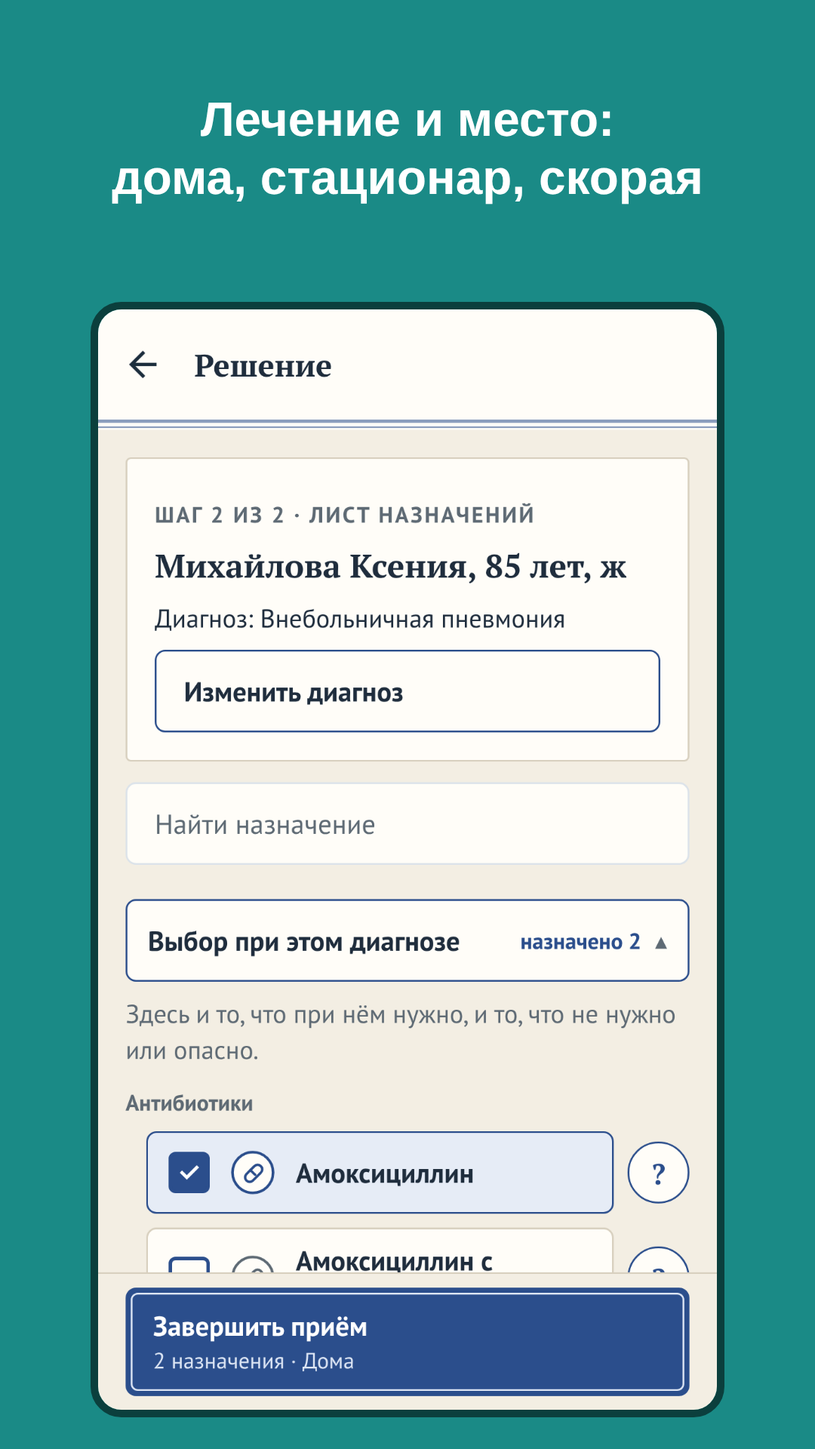
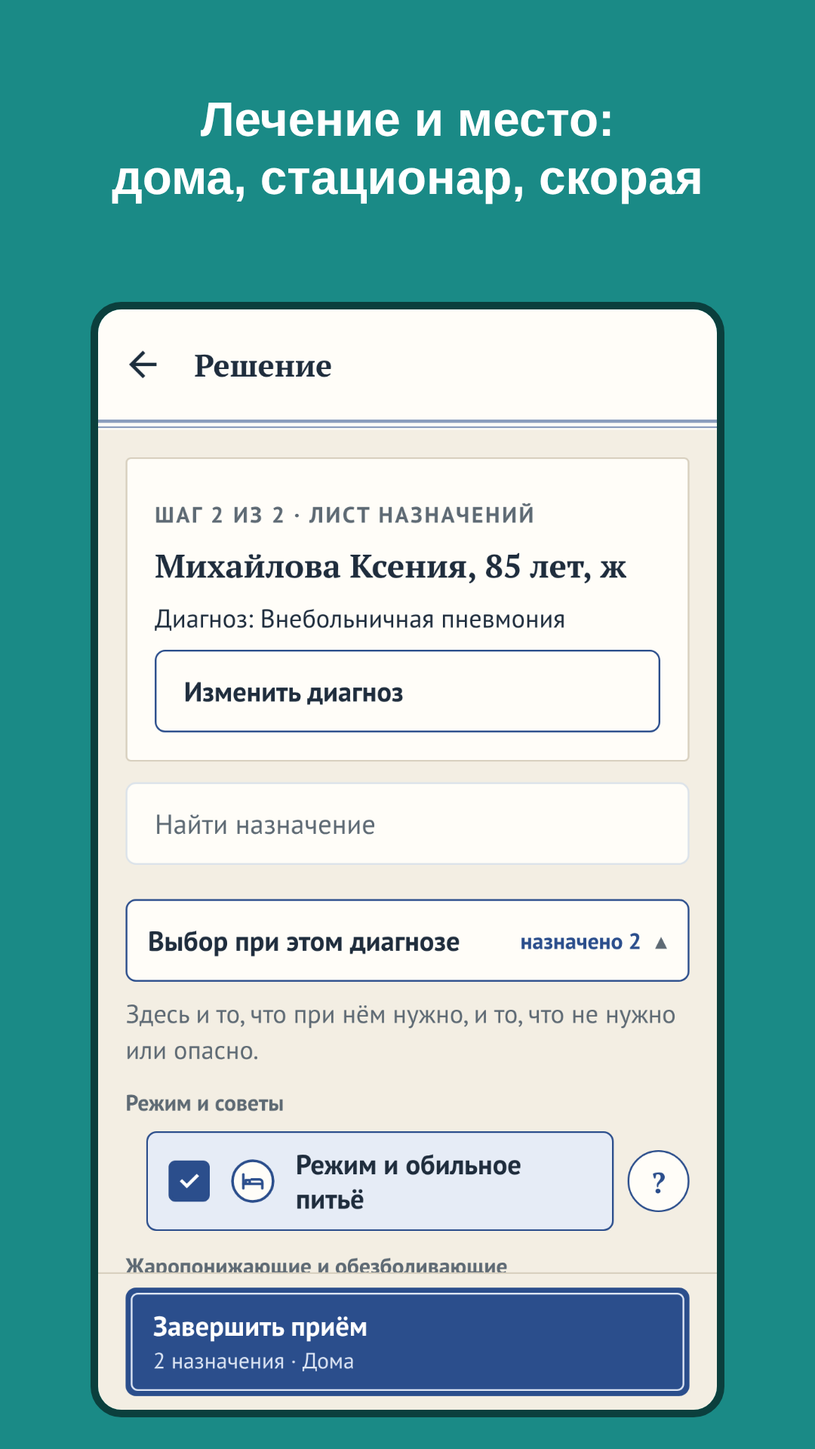
1.1.9 — лист назначений: сначала то, что облегчает (ответ на вопрос 73)
Ответ владельца на вопрос 73 (Nefeste/anamnez#215), вариант 2: TX_GROUP_ORDER —
«Режим и советы», жаропонижающие, нос, бронхи, противовирусные, антибиотики, остальное
по-прежнему. Порядок один для всех диагнозов; тот же — у лечения в энциклопедии. Тест —
в visit.test, в сценарии в браузере — антибиотики не первой группой. Снимок магазина 06
переснят. Вопрос 74 (вид кнопок) — Nefeste/anamnez#218, ссылки в документах.

Claude-Session: https://claude.ai/code/session_01L25NsoAfKYPftpG2eaN9Vv

Changed region(s): [[0.1528, 0.75, 0.6417, 0.875], [0.7639, 0.7812, 0.8556, 0.8438], [0.7333, 0.8438, 0.7639, 0.875]]

diff --git a/src/i18n/sections/about.ts b/src/i18n/sections/about.ts
@@ -9,14 +9,17 @@ export const about = {
   whatsNew: 'Что нового',
   // то же, что раздел версии в README.md (05-process.md, чек-лист выпуска)
   news: [
-    'Кнопка «Обновить гипотезы» на доске: убирает из ряда то, чего больше нет в «Похоже на».',
-    'Полосы над картой пациента закрываются: «Похоже на» и опасные причины — у этого пациента, «За это время» — до следующего события.',
-    'В настройках — «Подсказки полосой над картой»: выключите, и полос «Похоже на» и опасных причин не будет ни у кого.',
-    'Панель вопросов в расспросе отделена от беседы заметной границей.',
+    'Лист назначений начинается с того, что облегчает: «Режим и советы», жаропонижающие, нос, бронхи, — а противовирусные и антибиотики идут за ними.',
   ],
   // прежние версии (просьба владельца 01.11.2026) — под кнопкой, новые сверху, с первого выпуска; строки — из разделов
   // этих версий в README.md
   newsBefore: [
+    { version: '1.1.8', title: 'гипотезы и полосы над картой', items: [
+      'Кнопка «Обновить гипотезы» на доске: убирает из ряда то, чего больше нет в «Похоже на».',
+      'Полосы над картой пациента закрываются: «Похоже на» и опасные причины — у этого пациента, «За это время» — до следующего события.',
+      'В настройках — «Подсказки полосой над картой»: выключите, и полос «Похоже на» и опасных причин не будет ни у кого.',
+      'Панель вопросов в расспросе отделена от беседы заметной границей.',
+    ] },
     { version: '1.1.7', title: 'повторный проход', items: [
       'Медаль «Карьера пройдена» теперь даётся: прошедшие главу 4 получат её вместе с медалями глав после следующего закрытого дня.',
       '«Случай дня» — и в «Быстрой игре», рядом с практикой и «Сменой».',

diff --git a/tools/test/visit.test.ts b/tools/test/visit.test.ts
@@ -1,7 +1,7 @@
 // Приём пациента прототипа П4 (spec 2026-09-spikes): модуль грузится, часы идут делами,
 // результаты приходят в свой срок, правда видна только в разборе после диагноза.
 import { describe, expect, test } from 'bun:test';
-import { outcomeText, suggestedTreatments } from '../../src/state/caseView';
+import { outcomeText, suggestedTreatments, TX_GROUP_ORDER } from '../../src/state/caseView';
 import { act, chooseDiagnosis, chooseSetting, conditionChoices, conditionTerm, diagnosisGroups, examInfo, examsByAction, examTerm, findingInfo, finish, nextPatient, toggleTreatment, treatmentTerm, visitView, waitForResults } from '../../src/state/visit';
 
 describe('приём', () => {
@@ -146,6 +146,11 @@ describe('приём', () => {
     expect(group('tx.aspirin_acs')).toBe('heart');
     expect(group('tx.rest_fluids')).toBe('regimen');
     expect(v.treatmentGroups.every(g => g.title.length > 0)).toBe(true);
+    // вопрос 73 (#215, вариант 2): сначала режим и то, что облегчает, потом противовирусные и антибиотики
+    expect(TX_GROUP_ORDER.slice(0, 6)).toEqual(['regimen', 'pain', 'nose', 'breathing', 'antivirals', 'antibiotics']);
+    expect(new Set(TX_GROUP_ORDER).size).toBe(TX_GROUP_ORDER.length);
+    const keys = v.treatmentGroups.map(g => g.key);
+    expect(keys).toEqual(TX_GROUP_ORDER.filter(k => keys.includes(k)));
   });
 
   // вопрос 34 (замечание владельца 12.10.2026): при ОРВИ «Режим и обильное питьё» был в самом низу, рядом с прививками и гипсом

diff --git a/tools/e2e/smoke.ts b/tools/e2e/smoke.ts
@@ -1516,7 +1516,8 @@ try {
     `решение, шаг 2: лист назначений — сверху выбор при пневмонии, групп свёрнуто ${txClosed}`);
   // часть 101 (вопрос 68): выбор при диагнозе — группами в порядке всего листа, антибиотики — своей группой
   const topGroups = await page.getByTestId('tx-suggested').locator('[data-testid^="tx-top-"]').evaluateAll(xs => xs.map(x => x.getAttribute('data-testid')));
-  check(topGroups.length >= 2 && topGroups.includes('tx-top-antibiotics') && (await page.getByTestId('tx-top-antibiotics').locator('[data-testid="tx-tx.amoxicillin"]').count()) === 1,
+  // вопрос 73 (#215, вариант 2): антибиотики — не первой группой, сначала режим и то, что облегчает
+  check(topGroups.length >= 2 && topGroups.indexOf('tx-top-antibiotics') > 0 && (await page.getByTestId('tx-top-antibiotics').locator('[data-testid="tx-tx.amoxicillin"]').count()) === 1,
     `решение, шаг 2: выбор при диагнозе — группами: ${topGroups.join(', ')}`);
   await page.getByTestId('tx-search').fill('тромбол');
   check((await page.getByTestId('tx-tx.thrombolysis').count()) === 1 && (await page.getByTestId('tx-tx.cast_splint').count()) === 0,

diff --git a/src/state/caseView.ts b/src/state/caseView.ts
@@ -467,8 +467,13 @@ const TX_GROUPS: [string, string[]][] = [
   ['consult', ['consult']],
 ];
 
-/** Порядок групп лечения — для решения и энциклопедии. */
-export const TX_GROUP_ORDER = [...TX_GROUPS.map(([k]) => k), 'regimen'];
+/**
+ * Порядок групп лечения — для решения и энциклопедии. Ответ владельца на вопрос 73 (#215, вариант 2): сначала то, что
+ * облегчает, — режим, жаропонижающие, нос, бронхи, — потом противовирусные и антибиотики, остальное — как в
+ * `TX_GROUPS`. Порядок один для всех диагнозов: ответа он не подсказывает, а лист не начинается с антибиотиков.
+ */
+const TX_FIRST = ['regimen', 'pain', 'nose', 'breathing', 'antivirals', 'antibiotics'];
+export const TX_GROUP_ORDER = [...TX_FIRST, ...TX_GROUPS.map(([k]) => k).filter(k => !TX_FIRST.includes(k))];
 
 /** Группа по классу лечения; без класса — режим и советы. */
 export function txGroupOfClass(cls: string | undefined): string {

diff --git a/docs/specs/2026-10-publish-ready.md b/docs/specs/2026-10-publish-ready.md
@@ -1,7 +1,7 @@
 # Путь к публикации: критический проход и части
 
-**Версия:** 1.1.x → публикуемая **Состояние:** проход — 31.10.2026, повторный — 01.11.2026; части 97–105 — 1.1.1–1.1.8;
-106 — по просьбе владельца 01.11.2026
+**Версия:** 1.1.x → публикуемая **Состояние:** проход — 31.10.2026, повторный — 01.11.2026; части 97–105 — 1.1.1–1.1.8,
+ответ на вопрос 73 — 1.1.9; 106 — вид кнопок, вопрос 74
 
 ## Зачем
 
@@ -51,7 +51,7 @@
 | 102 | Меню на высоком экране — пустота между бейджем и пунктами | Н8 | вопрос 69, [#204](https://github.com/Nefeste/anamnez/issues/204) | S |
 | 103 | Повторный критический проход по тем же меркам; снимки и тексты магазина — по публикуемой версии; правки по нему — 1.1.7 | Н1, Н3, Н5–Н8, Н10 повторного прохода | вопрос 73, [#215](https://github.com/Nefeste/anamnez/issues/215) — порядок групп листа назначений | M |
 | 105 | Приём: кнопка «Обновить гипотезы» — убрать из ряда то, чего уже нет в «Похоже на»; плашки над картой пациента — «Похоже на», «Опасных причин … почти не бывает», «За это время пришёл …» — закрываются; видимая граница между беседой и вопросами | просьба владельца 01.11.2026; Н4 повторного прохода; сделано — 1.1.8 | — | M |
-| 106 | Вид кнопок — по образцу, который прислал владелец 01.11.2026; спецификация [`2026-11-buttons`](2026-11-buttons.md) | просьба владельца 01.11.2026 | вопрос 74 — клавиша или контур | M |
+| 106 | Вид кнопок — по образцу, который прислал владелец 01.11.2026; спецификация [`2026-11-buttons`](2026-11-buttons.md) | просьба владельца 01.11.2026 | вопрос 74, [#218](https://github.com/Nefeste/anamnez/issues/218) — клавиша или контур | M |
 
 Вопросы 70 (системный экран запуска Android, [#205](https://github.com/Nefeste/anamnez/issues/205)) и 71
 (тишина в кабинете на приёме, [#206](https://github.com/Nefeste/anamnez/issues/206)) — из спецификации
@@ -230,10 +230,15 @@
   Вес, жажда?» — на 370 точек, и ни одного вызова прокрутки из кода игры. Вопрос — двенадцатый в списке, и Playwright
   перед касанием сам докручивает панель к нему; отсюда срезанный верхний чип на снимках обоих проходов. У игрока панель
   стоит там, куда он её прокрутил; кадр ниже — с панелью в исходном положении.
-- **Из повторного прохода оставлено.** Н2 (лист назначений начинается с «Антибиотиков») — развилка, вопрос 73: порядок
-  групп выбран по ответу на вопрос 68, менять его — решение владельца. Н4 (пузырь над вопросами) — в части 105, тот же
-  экран. Н9 («идеального врача» и «разумный врач» на одном экране) — это две разные фигуры: уверенность по всем
-  найденным данным и путь врача-эталона с его обследованиями; имена оставлены.
+- **Ответ владельца на вопрос 73 — 1.1.9** (01.11.2026, [#215](https://github.com/Nefeste/anamnez/issues/215),
+  вариант 2). `TX_GROUP_ORDER`: «Режим и советы», «Жаропонижающие и обезболивающие», «Нос и аллергия», «Бронхи и
+  воспаление», «Противовирусные», «Антибиотики», остальное — в прежнем порядке. Порядок один для всех диагнозов; он же —
+  у лечения в энциклопедии. Тест — в `visit.test.ts`, в сценарии в браузере — антибиотики не первой группой. Снимок
+  магазина 06 переснят: лист при пневмонии начинается с «Режима и советов».
+- **Из повторного прохода оставлено.** Н2 (лист назначений начинается с «Антибиотиков») — была развилкой, вопрос 73:
+  порядок групп выбран по ответу на вопрос 68, менять его — решение владельца (решено — 1.1.9, выше). Н4 (пузырь над
+  вопросами) — в части 105, тот же экран. Н9 («идеального врача» и «разумный врач» на одном экране) — это две разные
+  фигуры: уверенность по всем найденным данным и путь врача-эталона с его обследованиями; имена оставлены.
 
 ## Журнал проверок
 

diff --git a/docs/07-roadmap.md b/docs/07-roadmap.md
@@ -152,14 +152,14 @@ ADR [0021](adr/0021-private-after-release.md)). Тег `v1.0.0` — 31.10.2026, 
      [#204](https://github.com/Nefeste/anamnez/issues/204): вариант 1 — **1.1.5**, сделано.
 103. Повторный критический проход по тем же меркам; снимки и тексты магазина — по публикуемой версии. Проход по
      1.1.6 — 01.11.2026, держащих находок нет; правки по нему — **1.1.7**, сделано. Порядок групп листа назначений —
-     вопрос 73, [#215](https://github.com/Nefeste/anamnez/issues/215).
+     вопрос 73, [#215](https://github.com/Nefeste/anamnez/issues/215), вариант 2 — **1.1.9**, сделано.
 104. Экран запуска Android — цвет фона под тему игры, правка `app.json` (путь владельца) отдельным PR — вопрос 70,
      [#205](https://github.com/Nefeste/anamnez/issues/205): вариант 2 — **1.1.6**, сделано; проверить на телефоне.
 105. Приём: кнопка «Обновить гипотезы» — убрать из ряда то, чего уже нет в «Похоже на»; плашки над картой пациента
      закрываются; видимая граница между беседой и вопросами — просьба владельца 01.11.2026; **1.1.8**, сделано.
 106. Вид кнопок — по образцу, который прислал владелец 01.11.2026: из шести стилей образца подходят два — клавиша
      и контур с жёсткой тенью; варианты на кадрах — спецификация [`specs/2026-11-buttons.md`](specs/2026-11-buttons.md),
-     вид — вопрос 74.
+     вид — вопрос 74, [#218](https://github.com/Nefeste/anamnez/issues/218).
 
 До публикации владелец проверяет название по ФИПС (часть 64) и обновляет карточку по публикуемой версии.
 
@@ -176,13 +176,14 @@ ADR [0021](adr/0021-private-after-release.md)). Тег `v1.0.0` — 31.10.2026, 
 |---|---|---|---|
 | 27 | [#117](https://github.com/Nefeste/anamnez/issues/117) | критерии симуляторов больниц на грани: 8 или 12 зёрен | проверки релиза |
 | 39 | [#126](https://github.com/Nefeste/anamnez/issues/126) | экран «Поддержать»; устав требует поддержку «снаружи игры» (дополнено 28.10.2026) | — |
-| 73 | [#215](https://github.com/Nefeste/anamnez/issues/215) | лист назначений: «Антибиотики» первой группой или ниже (повторный проход, часть 103) | — |
+| 74 | [#218](https://github.com/Nefeste/anamnez/issues/218) | вид кнопок: клавиша или контур с жёсткой тенью (часть 106) | часть 106 |
 Решены 31.10.2026, по критическому проходу (spec `2026-10-publish-ready`): 66 — вариант 1, эпилог кампании (часть 99);
 67 — вариант 1, спокойный учебный день (часть 100); 68 — вариант 1, группы в листе назначений (часть 101); 69 —
 вариант 1, сводка карьеры в меню (часть 102); 70 — вариант 2, цвет экрана запуска (часть 104); 71 — вариант 1,
 тишина в кабинете, фон затихает за секунду (1.1.2). Issues #201–#206 закрыл владелец. 72
 ([#208](https://github.com/Nefeste/anamnez/issues/208)) — вариант 1: новый ответ на расспрос целиком, «нет» приглушены,
-как в 1.1.1.
+как в 1.1.1. Решён 01.11.2026 — 73 ([#215](https://github.com/Nefeste/anamnez/issues/215)), вариант 2: лист назначений
+начинается с режима и того, что облегчает, антибиотики — ниже (1.1.9).
 
 Решены 30.10.2026, ответ владельца «вариант 1» на все три: 48 ([#159](https://github.com/Nefeste/anamnez/issues/159)) —
 выпуск 1.0 с базой в черновиках записан ADR [0020](adr/0020-release-with-draft-base.md), правило выпуска в

diff --git a/docs/journal/2026-11.md b/docs/journal/2026-11.md
@@ -11,3 +11,4 @@
 | 2026-11-01 | 1.1.7 — правки повторного прохода и просьбы владельца из сессии. Медаль «Карьера пройдена» была недостижима (в факты дня шла только текущая глава) — `chaptersDone`, тест от закрытого дня. Без пустой рамки на итоге случая дня; ответ на расспрос без повторов (`withoutRepeats`); четыре нормы базы спорили с находками соседних признаков — переписаны, база 87; новый день — на ×1; «Весь больной» на 360 точках — в две строки; в учебный день жалобы неучебных больных — только от их болезни. «Случай дня» — и в «Быстрой игре»; под «Что нового» — прежние версии с 1.0.0. Вопрос 73 — порядок групп листа назначений, Nefeste/anamnez#215. Остальные просьбы владельца 01.11.2026 — части 105 («Обновить гипотезы», закрываемые плашки) и 106 (вид кнопок по образцу). |
 | 2026-11-01 | 1.1.8 — часть 105 «Пути к публикации», просьба владельца 01.11.2026. «Обновить гипотезы» на доске: убирает из ряда то, чего больше нет в «Похоже на» (`staleHypotheses`). Полосы над картой закрываются «×»: «Похоже на» и опасные причины — у этого пациента, «За это время» — до следующего события; настройка «Подсказки полосой над картой» выключает их совсем. Граница беседы и панели вопросов — толще, на Android край прокрутки затухает (Ш4 повторного прохода). |
 | 2026-11-01 | Часть 106, вид кнопок: разобрал образец владельца — шесть стилей веба 2026 года; для игры подходят два — «клавиша» (тактильный скевоморфизм) и «контур с жёсткой тенью» (смягчённый необрутализм). Макет обоих на настоящей кнопке игры, кадры в обеих темах — спецификация `2026-11-buttons`; выбор — вопрос 74. Рекомендация — клавиша. Код макета в репозиторий не идёт, только кадры. |
+| 2026-11-01 | Ответ владельца на вопрос 73 (Nefeste/anamnez#215, закрыл владелец) — вариант 2: лист назначений начинается с «Режима и советов», жаропонижающих, носа и бронхов, потом противовирусные и антибиотики; порядок один для всех диагнозов — 1.1.9. Вопрос 74 — вид кнопок, Nefeste/anamnez#218, кадры — в спецификации `2026-11-buttons`. Ответ на 73 пришёл до моего следующего чтения Issue, но мой первый запрос комментариев вернул пусто — гонка; перед каждой частью — сверка Issues, как и было. |

diff --git a/README.md b/README.md
@@ -45,6 +45,16 @@ npm run android                      # отладочная сборка на т
 [`2026-09`](docs/journal/2026-09.md) (перенесены дословно: 28.10.2026 — с 0.5.14 по 0.6.0, 31.10.2026 — с 0.6.1 по
 0.6.8). Здесь — разделы 0.6.9 и новее.
 
+### 1.1.9 — лист назначений: сначала то, что облегчает (01.11.2026)
+
+- Лист назначений начинается с того, что облегчает: «Режим и советы», жаропонижающие, нос, бронхи, — а
+  противовирусные и антибиотики идут за ними, остальное — как было. Порядок по-прежнему один для всех диагнозов и
+  ответа не подсказывает; при ОРВИ и гриппе лист больше не открывается антибиотиками. Ответ владельца на вопрос 73
+  ([#215](https://github.com/Nefeste/anamnez/issues/215)), вариант 2 — спецификация
+  [`2026-10-publish-ready`](docs/specs/2026-10-publish-ready.md). Тот же порядок — у лечения в энциклопедии.
+- Вид кнопок — спецификация [`2026-11-buttons`](docs/specs/2026-11-buttons.md): клавиша или контур с жёсткой тенью,
+  кадры обоих вариантов; выбор — вопрос 74 ([#218](https://github.com/Nefeste/anamnez/issues/218)).
+
 ### 1.1.8 — гипотезы и полосы над картой (01.11.2026)
 
 - Кнопка «Обновить гипотезы» на доске: убирает из ряда то, чего больше нет в «Похоже на», — там, где уровень сложности

diff --git a/docs/specs/2026-11-buttons.md b/docs/specs/2026-11-buttons.md
@@ -1,6 +1,7 @@
 # Вид кнопок: клавиша или контур
 
-**Версия:** 1.1.x **Состояние:** задумано; вид — вопрос 74, ждёт ответа владельца
+**Версия:** 1.1.x **Состояние:** задумано; вид — вопрос 74 ([#218](https://github.com/Nefeste/anamnez/issues/218)), ждёт
+ответа владельца
 
 ## Зачем
 
@@ -49,7 +50,8 @@
 
 **Рекомендация — А.** Клавиша отвечает пальцу (вдавливается), не спорит со штампами и рамками «Медкарты» и
 продолжает приборы и монитор игры. Б — заметнее, но жёсткая тень рядом с карточками превращает каждый экран в
-плакат, а в «Мониторе» зелёные рамки светятся сильнее, чем данные. Вопрос 74.
+плакат, а в «Мониторе» зелёные рамки светятся сильнее, чем данные. Вопрос 74,
+[#218](https://github.com/Nefeste/anamnez/issues/218).
 
 ## Что увидит игрок
 

diff --git a/docs/specs/README.md b/docs/specs/README.md
@@ -81,4 +81,4 @@
 | [Где ждали: узкие места больницы, второй процедурный кабинет и партии в лаборатории](2026-10-where-waited.md) | 0.6.19 | сделано, ждёт проверки на телефоне |
 | [Премиальный вид: загрузка, свет на плане, звуки приборов, итог смены](2026-10-premium-polish.md) | 1.1.0 | сделано в коде, ждёт проверки на телефоне |
 | [Путь к публикации: критический проход и части](2026-10-publish-ready.md) | 1.1.x → публикуемая | части 97–105 сделаны, 106 — вид кнопок |
-| [Вид кнопок: клавиша или контур](2026-11-buttons.md) | 1.1.x | задумано; вид — вопрос 74 |
+| [Вид кнопок: клавиша или контур](2026-11-buttons.md) | 1.1.x | задумано; вид — вопрос 74, #218 |
